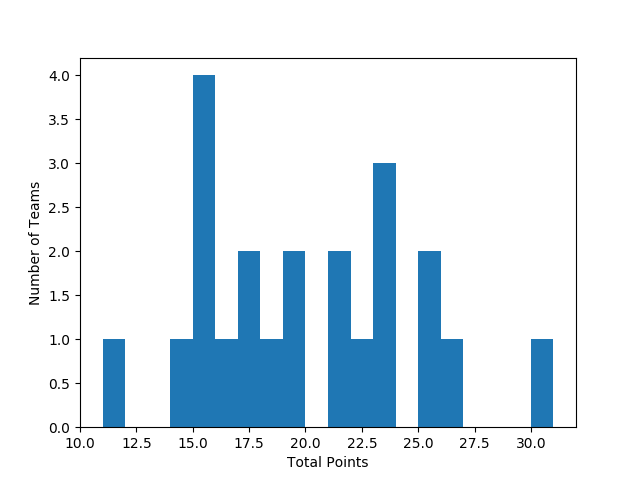
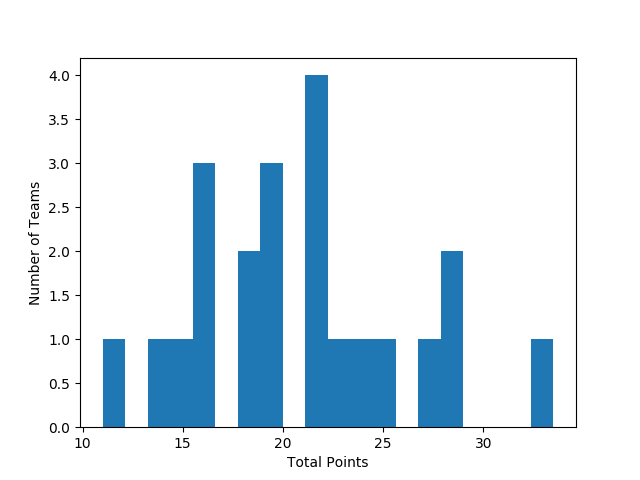
12-30 update highlighted

diff --git a/bowl_pool/2023-2024/rankings.html b/bowl_pool/2023-2024/rankings.html
@@ -364,29 +364,29 @@ ul.auto-toc {
 
 
 <div class="line-block">
-<div class="line"><em>Last updated:  2023-12-29 19:30:43</em></div>
-<div class="line"><em>Last bowl scored:  LibertyBowl (Iowa State vs. Memphis)</em></div>
+<div class="line"><em>Last updated:  2023-12-30 10:30:13</em></div>
+<div class="line"><em>Last bowl scored:  Cotton Bowl (Ohio State vs. Missouri)</em></div>
 </div>
 <div class="line-block">
-<div class="line">1. <strong>Barkside Ballers (Wylie &amp; Flapjack) 31.0</strong></div>
-<div class="line">2. <strong>Dbo 26.0</strong></div>
-<div class="line">3. <strong>bugabugaroo 25.5</strong></div>
-<div class="line">4. Kylo Bad Dog 25.0</div>
-<div class="line">5. MamaDAWG 23.75</div>
-<div class="line">6. SEC Shipley 23.25</div>
-<div class="line">7. Sascha Picks Dogs 23.0</div>
+<div class="line">1. <strong>Barkside Ballers (Wylie &amp; Flapjack) 33.5</strong></div>
+<div class="line">2. <strong>Dbo 28.5</strong></div>
+<div class="line">3. <strong>bugabugaroo 28.0</strong></div>
+<div class="line">4. Kylo Bad Dog 27.5</div>
+<div class="line">5. Sascha Picks Dogs 25.5</div>
+<div class="line">6. MamaDAWG 23.75</div>
+<div class="line">7. SEC Shipley 23.25</div>
 <div class="line">8. #MamaBear 22.0</div>
-<div class="line">9. LadyLonghorn 21.75</div>
-<div class="line">10. Manda Panda 21.5</div>
-<div class="line">11. The New Guy 19.5</div>
-<div class="line">12. Bear-in-Law 19.25</div>
-<div class="line">13. Rando Cal Rece Ian 18.5</div>
-<div class="line">14. GlamKam 17.25</div>
-<div class="line">15. em&amp;em 17.0</div>
-<div class="line">16. COOKIES 16.25</div>
-<div class="line">17. Aggie Austin 15.75</div>
-<div class="line">17. Badgers Rock! 15.75</div>
-<div class="line">17. Big 12 Bibby 15.75</div>
+<div class="line">8. The New Guy 22.0</div>
+<div class="line">10. LadyLonghorn 21.75</div>
+<div class="line">11. Manda Panda 21.5</div>
+<div class="line">12. GlamKam 19.75</div>
+<div class="line">13. em&amp;em 19.5</div>
+<div class="line">14. Bear-in-Law 19.25</div>
+<div class="line">15. Rando Cal Rece Ian 18.5</div>
+<div class="line">16. Badgers Rock! 18.25</div>
+<div class="line">17. COOKIES 16.25</div>
+<div class="line">18. Aggie Austin 15.75</div>
+<div class="line">18. Big 12 Bibby 15.75</div>
 <div class="line">20. Sir Fluffy McFlufferson 15.0</div>
 <div class="line">21. WD50 14.25</div>
 <div class="line">22. <strong>Dazed &amp; Confoosballed 11.0</strong></div>

diff --git a/bowl_pool/2023-2024/results.html b/bowl_pool/2023-2024/results.html
@@ -1292,6 +1292,34 @@ ul.auto-toc {
 <td>1.5</td>
 <td>0.0</td>
 </tr>
+<tr><td>32</td>
+<td>Cotton Bowl</td>
+<td>Ohio State</td>
+<td>Missouri</td>
+<td>2.5</td>
+<td>0.0</td>
+<td>0.0</td>
+<td>2.5</td>
+<td>2.5</td>
+<td>0.0</td>
+<td>0.0</td>
+<td>2.5</td>
+<td>0.0</td>
+<td>0.0</td>
+<td>2.5</td>
+<td>2.5</td>
+<td>2.5</td>
+<td>2.5</td>
+<td>0.0</td>
+<td>0.0</td>
+<td>0.0</td>
+<td>0.0</td>
+<td>2.5</td>
+<td>0.0</td>
+<td>0.0</td>
+<td>2.5</td>
+<td>0.0</td>
+</tr>
 <tr><td><strong>Totals</strong></td>
 <td>&nbsp;</td>
 <td>&nbsp;</td>
@@ -1299,25 +1327,25 @@ ul.auto-toc {
 <td>&nbsp;</td>
 <td><strong>22.0</strong></td>
 <td><strong>15.75</strong></td>
-<td><strong>15.75</strong></td>
-<td><strong>31.0</strong></td>
+<td><strong>18.25</strong></td>
+<td><strong>33.5</strong></td>
 <td><strong>19.25</strong></td>
 <td><strong>15.75</strong></td>
-<td><strong>25.5</strong></td>
+<td><strong>28.0</strong></td>
 <td><strong>16.25</strong></td>
 <td><strong>11.0</strong></td>
-<td><strong>26.0</strong></td>
-<td><strong>17.0</strong></td>
-<td><strong>17.25</strong></td>
-<td><strong>25.0</strong></td>
+<td><strong>28.5</strong></td>
+<td><strong>19.5</strong></td>
+<td><strong>19.75</strong></td>
+<td><strong>27.5</strong></td>
 <td><strong>21.75</strong></td>
 <td><strong>23.75</strong></td>
 <td><strong>21.5</strong></td>
 <td><strong>18.5</strong></td>
-<td><strong>23.0</strong></td>
+<td><strong>25.5</strong></td>
 <td><strong>23.25</strong></td>
 <td><strong>15.0</strong></td>
-<td><strong>19.5</strong></td>
+<td><strong>22.0</strong></td>
 <td><strong>14.25</strong></td>
 </tr>
 </tbody>

diff --git a/bowl_pool/2023-2024/index.html b/bowl_pool/2023-2024/index.html
@@ -365,8 +365,8 @@ ul.auto-toc {
 
 <p><strong>2023-2024 Bowl Pool</strong></p>
 <div class="line-block">
-<div class="line"><em>Last updated:  2023-12-29 19:30:43</em></div>
-<div class="line"><em>Last bowl scored:  LibertyBowl (Iowa State vs. Memphis)</em></div>
+<div class="line"><em>Last updated:  2023-12-30 10:30:13</em></div>
+<div class="line"><em>Last bowl scored:  Cotton Bowl (Ohio State vs. Missouri)</em></div>
 </div>
 <ul class="simple">
 <li><a class="reference external" href="rankings.html">Rankings</a> (<a class="reference external" href="rankings.csv">csv</a>)</li>
